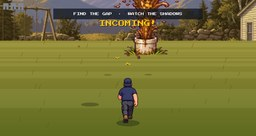
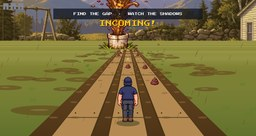
Cleanout Blowout: three plywood planks over a river of sewage explain the lanes; hop plank to plank (no sideways running)
Claude-Session: https://claude.ai/code/session_01QR4rFRbYTeq9tRTzXkRUE8

diff --git a/arcade/games.js b/arcade/games.js
@@ -201,7 +201,7 @@ GAMES.push({
 //    At the van, you turn around. You are covered.
 GAMES.push({
   id: 'sprinkler', name: 'CLEANOUT BLOWOUT', tag: 'Run the yard · dodge the poop geysers',
-  how: ['The whole line backed up and every cleanout in the yard is erupting. RUN FOR THE VAN.', 'The yard is already covered in piles. Hop lanes around them (◀ ▶ or tap the sides).', 'The geysers rain turds and corn onto the path: the SHADOWS show where it lands.', 'Every row has one gap. Find it. Get hit too many times and that is it for your pants.'],
+  how: ['The whole line backed up and every cleanout in the yard is erupting. RUN FOR THE VAN.', 'The yard is flooded with sewage. Stay on the three plywood planks: hop plank to plank around the piles (◀ ▶ or tap the sides).', 'The geysers rain turds and corn onto the path: the SHADOWS show where it lands.', 'Every row has one gap. Find it. Get hit too many times and that is it for your pants.'],
   dpad: 'lr',
   ctl: '◀ ▶ CHANGE LANE (OR TAP THE SIDES)',
   act: null,
@@ -229,7 +229,7 @@ GAMES.push({
     const ramp = Math.min(1, s.z / s.DIST); s.v = (11 + 6 * ramp) * s.k; s.z += s.v * dt;
     if (I.Lp || (I.ptr.clicked && I.ptr.x / W < 0.5)) s.lane = Math.max(-1, s.lane - 1);   /* three lanes, one hop at a time: no standing in between */
     if (I.Rp || (I.ptr.clicked && I.ptr.x / W >= 0.5)) s.lane = Math.min(1, s.lane + 1);
-    s.x += Math.sign(s.lane - s.x) * Math.min(Math.abs(s.lane - s.x), 4.2 * dt);   /* a steady side-step you can see */
+    s.x += Math.sign(s.lane - s.x) * Math.min(Math.abs(s.lane - s.x), 4.5 * dt);   /* one hop, plank to plank */
     while (s.z + 70 > s.next && s.next < s.DIST - 14) { this.row(s, s.next, ramp); s.next += (6.6 - 1.4 * ramp) * (0.9 + s.rnd() * 0.25); }
     for (const o of s.objs) {
       const rel = o.wz - s.z, prev = o.rel == null ? rel : o.rel; o.rel = rel;
@@ -251,15 +251,21 @@ GAMES.push({
     g.fillStyle = `rgba(80,55,25,${0.18 + 0.25 * ramp})`; g.fillRect(-6, 0, W + 12, HY);   /* the sky is going brown */
     for (let y = HY; y < H; y += 2) { const rel = D * (FY - HY) / Math.max(0.5, y - HY) - D, wz = s.z + rel, f = Math.min(1, (y - HY) / (H - HY)), c0 = [150, 146, 66], c1 = [98, 114, 44], v = Math.sin(wz * 0.31) * 4 + Math.sin(wz * 0.117 + 1.3) * 5, m = (a, b2) => Math.round(a + (b2 - a) * f + v);
       R(-6, y, W + 12, 2, `rgb(${m(c0[0], c1[0])},${m(c0[1], c1[1])},${m(c0[2], c1[2])})`); }   /* an ordinary back lawn: no mowing stripes */
-    { const hsh = n => { const x = Math.sin(n * 127.1) * 43758.5453; return x - Math.floor(x); }, z0 = Math.floor(s.z / 1.1) * 1.1;   /* worn patches, clover, tufts and dandelions, fixed to the ground so they rush past */
-      for (let zz = z0 + 34; zz >= z0; zz -= 1.1) { const rel = zz - s.z; if (rel < -1) continue;   /* only the near lawn: far away it's just grass */ const k = Math.round(zz / 1.1);
-        for (let i = 0; i < 7; i++) { const r1 = hsh(k * 13 + i), x = (r1 - 0.5) * 9, p = this.P(s, rel + hsh(k * 7 + i) * 1.1, x), sc2 = p.sc, kind = hsh(k * 31 + i);
-          if (p.y < HY + 1) continue;
-          if (kind < 0.04) { g.fillStyle = 'rgba(110,92,48,.3)'; g.beginPath(); g.ellipse(p.x, p.y, 70 * sc2, 12 * sc2, 0, 0, 7); g.fill(); }   /* bare dirt */
-          else if (kind < 0.16) { g.fillStyle = 'rgba(70,96,34,.28)'; g.beginPath(); g.ellipse(p.x, p.y, 34 * sc2, 7 * sc2, 0, 0, 7); g.fill(); }   /* darker clump */
-          else if (kind < 0.75) { g.strokeStyle = kind < 0.5 ? '#5f7c2c' : '#8fa848'; g.lineWidth = Math.max(1, 1.6 * sc2); g.beginPath(); for (let j = -2; j <= 2; j++) { g.moveTo(p.x + j * 3 * sc2, p.y); g.lineTo(p.x + j * 4.5 * sc2, p.y - (7 + (j & 1) * 3) * sc2); } g.stroke(); }   /* grass tuft */
-          else if (kind < 0.8) { C(p.x, p.y - 3 * sc2, Math.max(1, 2.6 * sc2), '#f2d23c'); }   /* dandelion */
-          else if (kind < 0.84) { C(p.x, p.y - 2 * sc2, Math.max(1, 2 * sc2), '#e8e4d8'); } } } }   /* clover flower */
+    { const hsh = n => { const x = Math.sin(n * 127.1) * 43758.5453; return x - Math.floor(x); }, z0 = Math.floor(s.z / 1.1) * 1.1;   /* the lawn is soaked: brown puddles everywhere off the planks */
+      for (let zz = z0 + 40; zz >= z0; zz -= 1.1) { const rel = zz - s.z; if (rel < -1) continue; const k = Math.round(zz / 1.1);
+        for (let i = 0; i < 6; i++) { const x = (hsh(k * 13 + i) - 0.5) * 10, p = this.P(s, rel + hsh(k * 7 + i) * 1.1, x), sc2 = p.sc, kind = hsh(k * 31 + i); if (p.y < HY + 1) continue;
+          if (kind < 0.35) { g.fillStyle = 'rgba(96,66,28,.55)'; g.beginPath(); g.ellipse(p.x, p.y, (30 + kind * 120) * sc2, (5 + kind * 18) * sc2, 0, 0, 7); g.fill(); g.fillStyle = 'rgba(200,170,110,.25)'; g.beginPath(); g.ellipse(p.x - 6 * sc2, p.y - 1 * sc2, (10 + kind * 30) * sc2, 2 * sc2, 0, 0, 7); g.fill(); }   /* sewage puddle, with a shine */
+          else if (kind < 0.6) { g.strokeStyle = '#5f7c2c'; g.lineWidth = Math.max(1, 1.5 * sc2); g.beginPath(); for (let j = -2; j <= 2; j++) { g.moveTo(p.x + j * 3 * sc2, p.y); g.lineTo(p.x + j * 4.5 * sc2, p.y - (7 + (j & 1) * 3) * sc2); } g.stroke(); } } } }
+    { const far = 70, PL = 0.34;   /* three plywood planks laid across a river of sewage to the van: hop plank to plank, you can't run in the muck */
+      { const m1 = this.P(s, far, -1.75), m2 = this.P(s, far, 1.75), n1 = this.P(s, -0.9, -1.75), n2 = this.P(s, -0.9, 1.75), gr = g.createLinearGradient(0, m1.y, 0, H); gr.addColorStop(0, '#6b4a22'); gr.addColorStop(1, '#4e3417'); g.fillStyle = gr;
+        g.beginPath(); g.moveTo(m1.x, m1.y); g.lineTo(m2.x, m2.y); g.lineTo(n2.x, n2.y); g.lineTo(n1.x, n1.y); g.fill();
+        for (let zz = Math.ceil(s.z / 1.6) * 1.6; zz < s.z + 40; zz += 1.6) { const rel = zz - s.z; for (const xx of [-1.55, -0.5, 0.5, 1.55]) { const q = this.P(s, rel, xx + Math.sin(zz * 1.7 + xx * 3) * 0.08); g.fillStyle = 'rgba(170,130,70,.35)'; g.beginPath(); g.ellipse(q.x, q.y, 9 * q.sc, 1.6 * q.sc + 0.4, 0, 0, 7); g.fill(); if (Math.sin(zz * 3.1 + xx) > 0.85) C(q.x + 5 * q.sc, q.y - 1, Math.max(1, 2.2 * q.sc), 'rgba(140,100,50,.8)'); } } }   /* ripples and bubbles in the muck */
+      for (const lx of [-1, 0, 1]) { const a1 = this.P(s, far, lx - PL), a2 = this.P(s, far, lx + PL), b1 = this.P(s, -0.9, lx - PL), b2 = this.P(s, -0.9, lx + PL);
+        g.fillStyle = '#4a3418'; g.beginPath(); g.moveTo(a1.x - 1, a1.y); g.lineTo(a2.x + 1, a2.y); g.lineTo(b2.x + 3, b2.y + 3); g.lineTo(b1.x - 3, b1.y + 3); g.fill();   /* the plank's edge */
+        g.fillStyle = '#b48a52'; g.beginPath(); g.moveTo(a1.x, a1.y); g.lineTo(a2.x, a2.y); g.lineTo(b2.x, b2.y); g.lineTo(b1.x, b1.y); g.fill();
+        for (let zz = Math.ceil(s.z / 8) * 8; zz < s.z + far; zz += 8) { const rel = zz - s.z, c1 = this.P(s, rel, lx - PL), c2 = this.P(s, rel, lx + PL); g.strokeStyle = '#6e5230'; g.lineWidth = Math.max(1, 2 * c1.sc); g.beginPath(); g.moveTo(c1.x, c1.y); g.lineTo(c2.x, c2.y); g.stroke();   /* seams between sheets */
+          for (const fx of [-0.22, 0.22]) { const n1 = this.P(s, rel + 0.4, lx + fx); C(n1.x, n1.y, Math.max(0.6, 1.4 * n1.sc), '#3a2a14'); } }   /* nails */
+        for (let zz = Math.ceil(s.z / 3) * 3; zz < s.z + 40; zz += 3) { const rel = zz - s.z, q = this.P(s, rel, lx + Math.sin(zz) * 0.18); g.fillStyle = 'rgba(110,72,30,.35)'; g.beginPath(); g.ellipse(q.x, q.y, 9 * q.sc, 2.4 * q.sc, 0, 0, 7); g.fill(); } } }   /* muddy boot prints */
     { const rel = s.DIST - s.z + 4; if (rel < 75 && IMG.van_back) { const p = this.P(s, rel, 0), im = IMG.van_back, fw = im.width / 6, h = 2.6 * this.U * p.sc, w = h * fw / im.height; g.imageSmoothingEnabled = true; g.drawImage(im, 0, 0, fw, im.height, p.x - w / 2, p.y - h, w, h); g.imageSmoothingEnabled = false; } }
     const L = s.objs.filter(o => o.wz - s.z > -1).sort((a, b) => (b.wz - s.z) - (a.wz - s.z));
     for (const o of L) { const rel = o.wz - s.z;
@@ -286,9 +292,8 @@ GAMES.push({
           SPC('poop', p.x + 2, top + 2, 0.55);   /* and one right on top of his head */
           for (let i = 0; i < 4; i++) { const an = t * (4 + i) + i * 1.6; R(p.x + Math.cos(an) * 24, top + 8 + Math.sin(an * 1.3) * 10, 2, 2, '#111'); }   /* flies */
           R(0, H - 46, W, 30, 'rgba(16,21,31,.85)'); T(s.hits ? 'Made it. ...Mostly.' : 'Made it! ...Wait. The RAIN.', 240, H - 37, '#f7c418', 8, 'center'); T(`${HERO(s).name === 'ROD' ? 'MATT' : 'ROD'}: "You're riding in the back."`, 240, H - 24, '#e8dcc0', 6, 'center'); } }
-      else if (!(s.inv > 0 && Math.floor(t * 12) % 2)) { const dx = s.lane - s.x, side = Math.abs(dx) > 0.12;   /* hopping lanes: you actually run that way */
-        if (side) { g.save(); g.translate(p.x, p.y); g.rotate(dx * 0.12); SPR(who, WALK(who, t * 1.6, dx > 0 ? 6 : 8), 0, -Math.abs(Math.sin(t * 20)) * 2, dx < 0 && !!IMG[who + '_more'], 2.4); g.restore(); }
-        else SPR(who, IMG[who + '_walk'] ? 22 + Math.floor(t * 10) % 4 : 7, p.x, p.y - Math.abs(Math.sin(t * 20)) * 2, false, 2.4); } }
+      else if (!(s.inv > 0 && Math.floor(t * 12) % 2)) { const f = Math.abs(s.lane - s.x), hop = f > 0.02 ? Math.sin(Math.min(1, f) * Math.PI) * 26 : 0;   /* hopping plank to plank */
+        SPR(who, hop ? 7 : (IMG[who + '_walk'] ? 22 + Math.floor(t * 10) % 4 : 7), p.x, p.y - hop - (hop ? 0 : Math.abs(Math.sin(t * 20)) * 2), false, 2.4); } }
     g.restore();
     // the brown rain
     g.strokeStyle = `rgba(95,62,26,${0.35 + 0.35 * ramp})`; g.lineWidth = 1; g.beginPath(); for (const d of s.drops) { g.moveTo(d.x, d.y); g.lineTo(d.x + 3, d.y - 9); } g.stroke();
